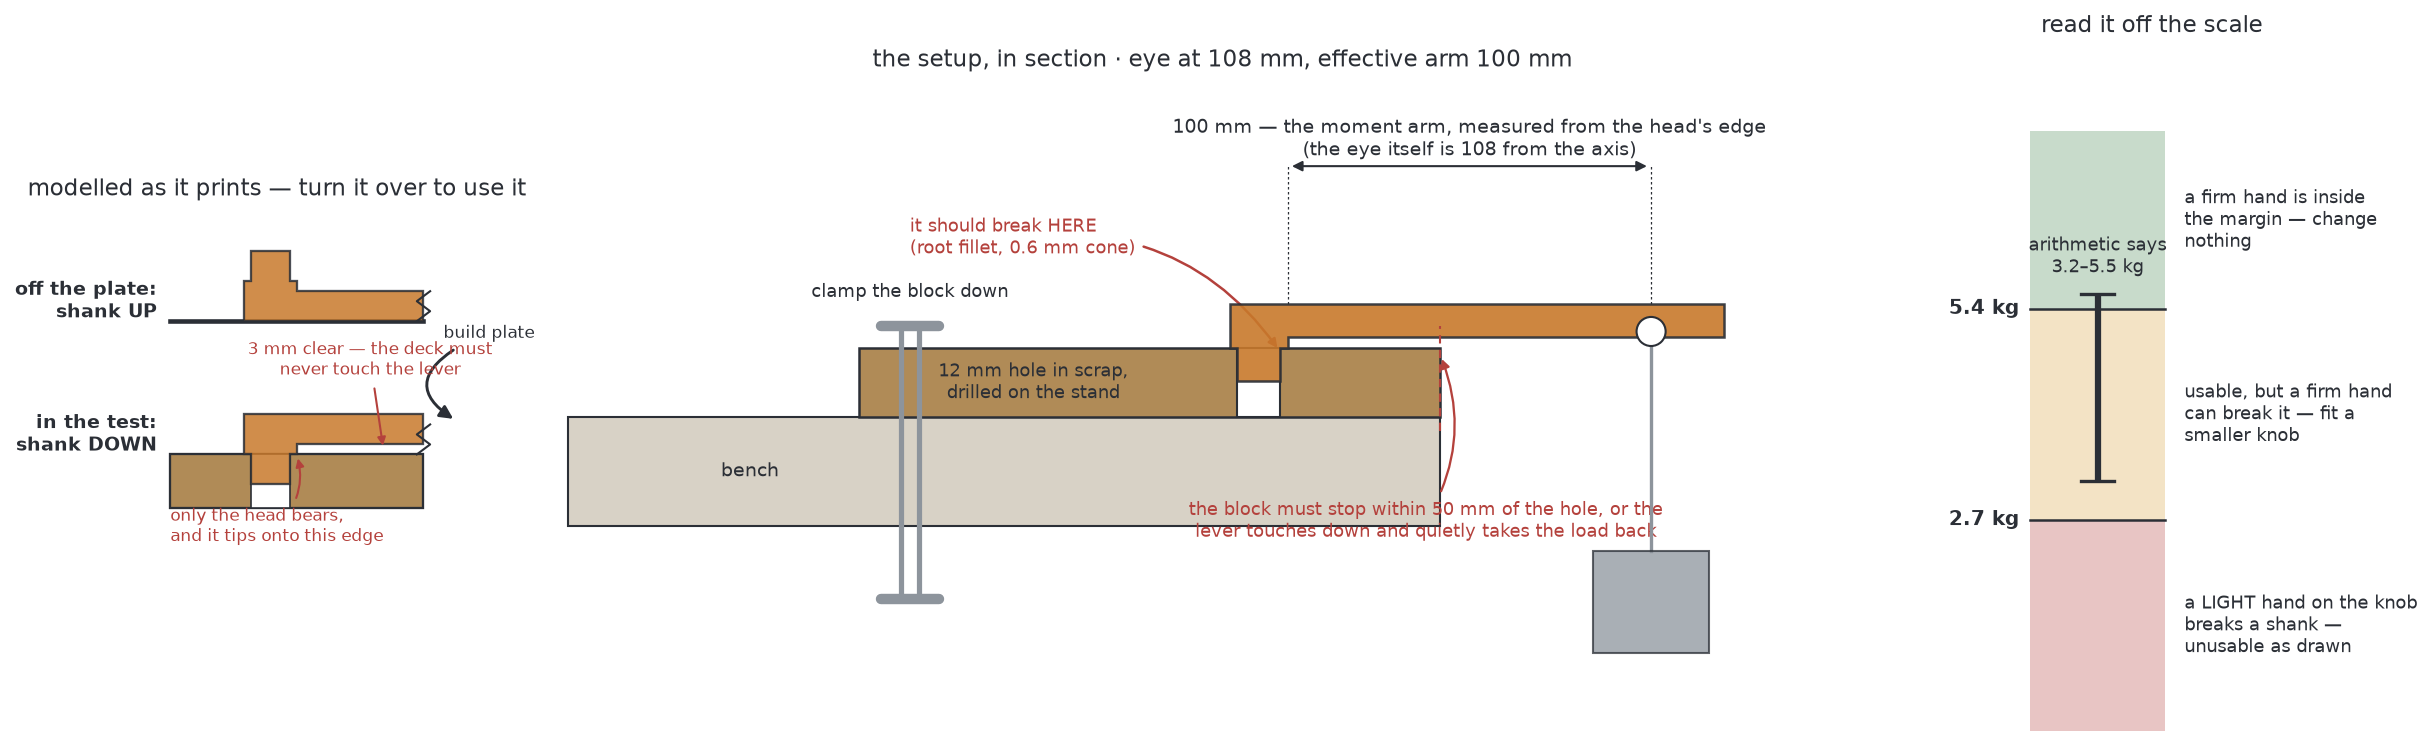
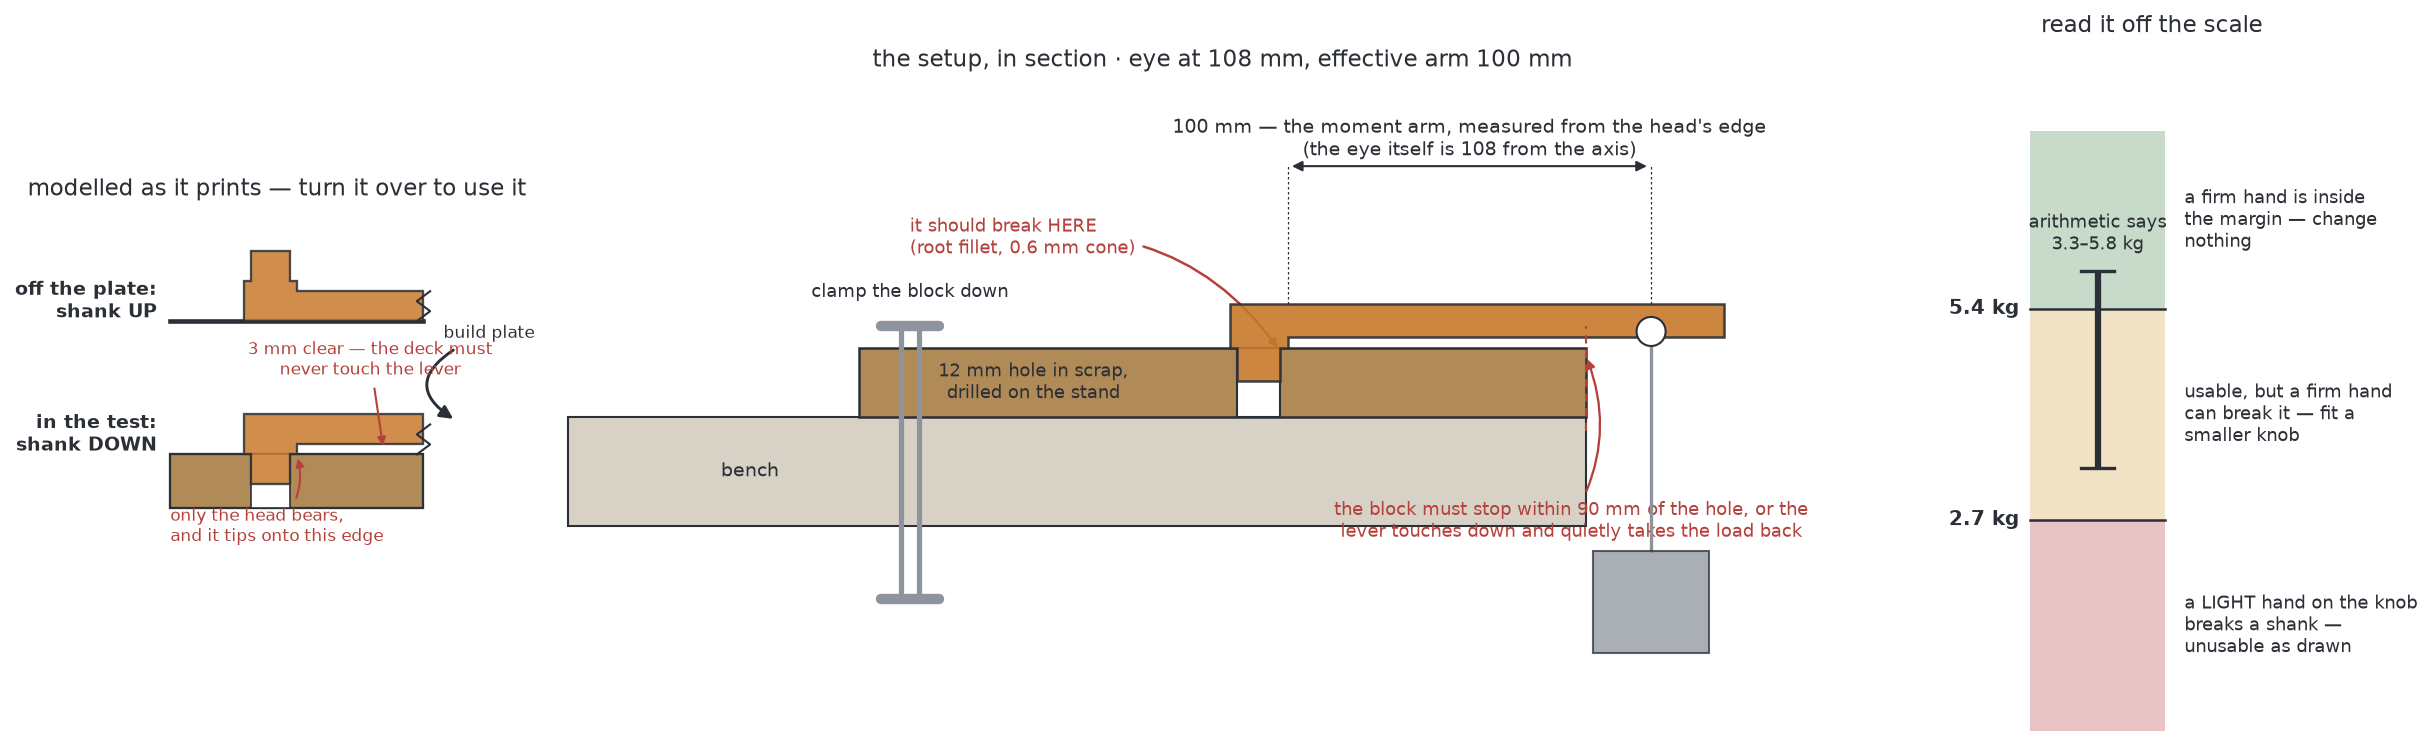
The fit is measured: tight, two rungs below what was assumed
The ladder was printed and tight -- 0.15mm diametral clearance -- was the
tightest rung that still drops in under its own weight, which is the whole test.
The default had been slip, on the reasoning that a dog wants to be a slip fit and
no better because a tight one has to be tapped out with something and the
something is usually the workpiece. On a printed 12mm hole at a 0.4mm nozzle that
was over-cautious, and the assumption is recorded as an assumption so the same
reasoning does not get applied unmeasured to the next grid.

It is 0.2mm of shank for free, and it moves more than the dogs. The root goes
from 155 to 163mm3 of section modulus, so the break arm's expected range shifts
from 3.2-5.5kg to 3.3-5.8. And the arm's freedom to cock in its hole halves,
1.9 degrees against 3.3, which nearly doubles how far the block may reach past
the hole in the break test: 90mm rather than 53, the difference between
specifying an offcut and specifying a particular offcut.

That last number was a constant typed into the drawing, which the house rule says
it should not have been. dog_rig.block_reach now computes it from the fit and the
drawing reads it, so a figure cannot go on stating a limit the model no longer
has -- and a test asserts the two agree. Same for the stand-off, which moves into
dog_rig as the canonical value the arm and the drawing share.

Backer grip confirmed at the default 0.25, so nothing changes there. Figures and
[…]

Changed region(s): [[0.5, 0.4625, 0.75, 0.7399], [0.8438, 0.2775, 0.9062, 0.4008], [0.8438, 0.6166, 0.875, 0.6475]]

diff --git a/geom/dog_grid.py b/geom/dog_grid.py
@@ -18,8 +18,8 @@ is the same and someone will want to bolt this to a real bench.
 WHY NOT SMALLER HOLES, WHICH IS THE OBVIOUS ECONOMY. Ten on twenty-five is the
 tempting version and it is the one thing here that is not a preference. A dog
 is a cantilever and its root is a circle, so what it survives goes as the cube
-of the diameter: a 9.65mm shank has a section modulus of 88mm3 against 155 for
-an 11.65mm one. Across printed layers, at 20 to 35 MPa, that is a root that lets
+of the diameter: a 9.85mm shank has a section modulus of 94mm3 against 163 for
+an 11.85mm one. Across printed layers, at 20 to 35 MPa, that is a root that lets
 go somewhere between 176 and 309 newtons applied 10mm up. An M6 in the clamp
 turned by hand on a knob delivers 250 to 500. A 10mm dog therefore breaks under
 a firm hand, not under abuse, and no amount of pitch cleverness recovers that.
@@ -45,7 +45,7 @@ numbers are still moving, and a bought or tapped plate is what it becomes.
 
 The pitch is what carries over. A fence spans a whole number of pitches and a
 clamp straddles exactly one, so both are already cut for a breadboard; what
-would change is the shank, from an 11.65mm dog to an M6 stud, which is one
+would change is the shank, from an 11.85mm dog to an M6 stud, which is one
 feature on each part rather than a redesign. Two details worth knowing before
 counting on it. A 150mm board at this pitch holds six holes with 12.5mm edge
 margin, an *even* count -- so its centre falls between four holes and it has no
@@ -79,9 +79,10 @@ of a 10mm plate, which is stiff enough not to matter for anything this machine
 can push; but it is the column to leave empty when a setup lets you, and it is a
 locating column rather than one to hang a clamp's whole preload off.
 
-The other cost is unchanged and older: a 12mm hole takes an 11.65mm shank where
-a half inch one took 12.35, and that is a sixth off the section modulus at the
-root. It is 3.2 to 5.5kg on the break arm rather than 3.8 to 6.6.
+The other cost is unchanged and older: a 12mm hole takes an 11.85mm shank where
+a half inch one took 12.35, and that is a ninth off the section modulus at the
+root. It is 3.3 to 5.8kg on the break arm rather than 3.8 to 6.6 -- and it was a
+sixth until the ladder came back tight rather than slip.
 
 THE CENTRE STATION IS NOT OPTIONAL. One hole has to sit exactly on the spindle
 axis. It is where the sacrificial backer goes, it is what you line the deck up
@@ -173,11 +174,18 @@ ones do not fit a 10mm deck.
 FITS = {"loose": 0.50, "slip": 0.35, "snug": 0.25, "tight": 0.15}
 """Diametral clearance between a dog shank and its hole, in mm.
 
-These are guesses until a plate has been printed, which is what ``--ladder`` is
-for: print one stop at each fit, keep the tightest that still drops in under its
-own weight, and set that as the default. A dog wants to be a slip fit and no
-better -- a tight one has to be tapped out with something, and the something is
-usually the workpiece.
+These were guesses until a plate was printed, which is what ``--ladder`` is for:
+print one stop at each fit, keep the tightest that still drops in under its own
+weight, and set that as the default. Which has now been done, and the answer was
+``tight``.
+
+That is two rungs tighter than this first assumed, and the assumption is worth
+recording because it was reasoned rather than measured: a dog wants to be a slip
+fit and no better, went the argument, because a tight one has to be tapped out
+with something and the something is usually the workpiece. On a printed 12mm
+hole at 0.4mm nozzle that turned out to be over-cautious -- ``tight`` drops in
+under its own weight and comes out by hand. Any new grid or nozzle gets the
+ladder printed again rather than inheriting this.
 """
 
 LADDER = ("loose", "slip", "snug", "tight")

diff --git a/parts/dog_rig.py b/parts/dog_rig.py
@@ -9,9 +9,9 @@ destroyed.
 WHAT IS ACTUALLY UNKNOWN, in the order it would hurt:
 
 1. How much a shank root holds. The fillet is a guess, and the numbers no longer
-   say the margin is thin -- they say there may not be one. An 11.65mm shank has
-   a section modulus of 155mm^3, so at somewhere between 20 and 35 MPa of layer
-   adhesion it lets go between 3.1 and 5.4 N.m. Against that, the clamp at a
+   say the margin is thin -- they say there may not be one. An 11.85mm shank has
+   a section modulus of 163mm^3, so at somewhere between 20 and 35 MPa of layer
+   adhesion it lets go between 3.3 and 5.7 N.m. Against that, the clamp at a
    firm hand on its knob (``bench_dogs.KNOB``, 500N, corrected upwards from a
    guessed 200) puts 5.2 N.m into the root. That is inside the range the root
    fails in, not below it. A light hand at 250N gives 2.6 and is comfortable, so
@@ -32,6 +32,7 @@ truncated one saves a quarter of an hour and changes the thing being measured.
 
 from __future__ import annotations
 
+import math
 from dataclasses import replace
 
 from build123d import Align, Box, Cylinder, Part, Plane, Pos, RectangleRounded, extrude
@@ -57,12 +58,41 @@ distance. The eye therefore sits half a head further out than the number that
 comes off the scale. See ``arm``.
 """
 
+STAND = 3.0
+"""How far the break arm's lever stands clear of the deck, in mm.
+
+The fix for the flaw in ``arm``, and a limit on the block in the same number --
+see ``block_reach``.
+"""
+
+
+def block_reach(params: Params, stand: float = STAND) -> float:
+    """How far the block may reach past the hole in the break test, in mm.
+
+    The arm has to be free to rotate through everything between snug and broken
+    or the lever touches down and quietly takes the load back. Two things add
+    up: the shank cocks in its clearance before the hole resists at all, and
+    then the root bends before it lets go. The stand-off has to outlast both at
+    the block's outer edge, which is what this solves for.
+
+    Measuring the fit paid for itself here. At the guessed slip clearance the
+    arm cocked 2.2 degrees before the hole did anything and the block could only
+    reach 53mm; at the measured tight fit it is 1.0 and the block may reach 90,
+    which is the difference between specifying an offcut and specifying a
+    particular offcut.
+    """
+    cocking = params.fit / params.shank_length
+    stiffness = math.pi * params.shank**4 / 64
+    bending = 5.4e3 * params.shank_length / (3000 * stiffness)  # PLA, at the break
+    return stand / (cocking + bending)
+
+
 PUCK_GRIPS = (0.15, 0.25, 0.35, 0.45)
 """Diametral interferences worth trying on a backer, loosest first."""
 
 
 def arm(params: Params, lever: float = LEVER, width: float = 20.0,
-        eye: float = 8.0, stand: float = 3.0) -> Part:
+        eye: float = 8.0, stand: float = STAND) -> Part:
     """A stop with a lever on it, for breaking one root on purpose.
 
     Drop it in a hole, clamp the block down, hang a bag off the eye and fill the

diff --git a/tests/test_dog_rig.py b/tests/test_dog_rig.py
@@ -118,20 +118,29 @@ def test_only_the_head_touches_the_deck(params):
 
 
 def test_the_stand_off_says_how_big_the_block_may_be(params):
-    """Three millimetres is not picked for looks, and it does not buy unlimited
-    block. Shank clearance alone lets the arm cock in its hole before the hole
-    resists at all, and the root bends through more again before it lets go --
-    about 3.3 degrees between them. The lever has to stay clear through all of
-    it or it touches down mid-test and takes the load back, so the stand-off is
-    really a limit on how far the block may reach past the hole. It comes out a
-    little over 50mm, which is an ordinary offcut."""
-    stand = 3.0
-    cocking = params.fit / params.shank_length
-    stiffness = math.pi * params.shank**4 / 64
-    bending = 5.4e3 * params.shank_length / (3000 * stiffness)  # PLA, at the break
-    reach = stand / (cocking + bending)
-    assert 40 < reach < 70, f"block may reach {reach:.0f}mm past the hole"
-    assert stand < params.rise
+    """Three millimetres of stand-off does not buy unlimited block. The arm has
+    to stay clear through everything between snug and broken -- the shank cocks
+    in its clearance before the hole resists at all, then the root bends before
+    it goes -- or the lever touches down and takes the load back mid-test.
+
+    What it buys depends on the fit, which is why measuring it mattered beyond
+    the dogs themselves: at the guessed slip clearance the block could reach
+    53mm, and at the measured tight fit it reaches 90."""
+    reach = dog_rig.block_reach(params)
+    assert reach > 60, f"block may only reach {reach:.0f}mm; say so on the drawing"
+    assert dog_rig.STAND < params.rise
+    loose = dog_rig.block_reach(params.at("loose"))
+    assert loose < reach, "a looser fit has to buy less block, not more"
+
+
+def test_the_drawing_states_the_block_limit_it_computes(params):
+    """The house rule, checked on the one drawing whose numbers are load-bearing
+    rather than illustrative: the limit on the figure is the limit the model
+    computes, rounded, and not a constant somebody typed once."""
+    from tools import break_test
+
+    assert break_test.STAND == dog_rig.STAND
+    assert round(dog_rig.block_reach(params), -1) == pytest.approx(90.0)
 
 
 def test_the_arm_is_stronger_than_the_shank_it_is_there_to_break(params):
@@ -183,7 +192,7 @@ def test_the_expected_break_is_a_weight_a_person_can_hang(params):
     """The point of a 100mm arm: the whole plausible range of answers lands
     between a bottle of water and a bucket of it."""
     shank_z = math.pi * params.shank**3 / 32
-    for mpa, expect in ((20, 3.2), (35, 5.5)):
+    for mpa, expect in ((20, 3.3), (35, 5.8)):
         kg = shank_z * mpa / 1000 / (dog_rig.LEVER / 1000) / 9.81
         assert kg == pytest.approx(expect, abs=0.1)
 

diff --git a/parts/bench_dogs.py b/parts/bench_dogs.py
@@ -26,7 +26,7 @@ hand can apply is the limit rather than the plastic being it.
 
 That second one is not a nicety, which is what the corrected numbers in ``KNOB``
 changed. A firm hand on a knob is 500N, and 500N at the bolt's height is 5.2 N.m
-against a root that holds 3.1 to 5.4. The knob is not buying margin on top of a
+against a root that holds 3.3 to 5.7. The knob is not buying margin on top of a
 comfortable design; it is most of the margin there is.
 
 WHAT THE FOUR MOUNTING BOLTS ACTUALLY SEE, which is almost nothing. A fence and
@@ -109,7 +109,7 @@ knob turned lightly at 0.3 N.m gives 250N and one turned firmly at 0.6 gives
 500. This corrected an earlier figure of 200N, which was a guess dressed as a
 number and was optimistic by somewhere between a quarter and a factor of two
 and a half. It matters because 500N times the bolt's height above the deck is
-5.2 N.m at a shank root that holds 3.1 to 5.4, so a firm hand is not inside the
+5.2 N.m at a shank root that holds 3.3 to 5.7, so a firm hand is not inside the
 margin -- it is on it. See ``parts.dog_rig``.
 
 A SMALLER SCREW MAKES THIS WORSE, WHICH IS THE OPPOSITE OF THE FIRST INSTINCT.
@@ -139,9 +139,20 @@ class Params:
 
     grid: Grid = dog_grid.DEFAULT
     """The hole pattern every part here plugs into."""
-    fit: float = dog_grid.FITS["slip"]
-    """Diametral clearance between a shank and its hole. Print the ladder before
-    trusting this one -- see ``geom.dog_grid.FITS``."""
+    fit: float = dog_grid.FITS["tight"]
+    """Diametral clearance between a shank and its hole.
+
+    Measured, not guessed: the ladder was printed and the tight rung was the
+    tightest that still dropped in under its own weight, which is the whole test.
+    This started at slip, two rungs looser, on the reasoning that a printed hole
+    comes out undersize -- it did not, or not by enough to matter, and the reason
+    to say so here is that the same reasoning would otherwise get applied again
+    to the next grid.
+
+    It is 0.2mm of shank the design gets for free. The root goes from 155 to
+    163mm3 of section modulus, and the arm's freedom to cock in its hole halves,
+    which is what the break rig's block limit is set from.
+    """
 
     # --- the stop ---------------------------------------------------------
     head: float = 16.0

diff --git a/tools/break_test.py b/tools/break_test.py
@@ -49,10 +49,10 @@ WARN = "#d9a441"
 
 EYE = 8.0
 WIDTH = 20.0
-STAND = 3.0
-BLOCK = 50.0
-"""How far the block may reach past the hole, in mm. Set by ``STAND`` and the
-rotation the arm has to be free to make -- see ``dog_rig.arm``."""
+STAND = dog_rig.STAND
+"""Both read from the model rather than set here, because the drawing has to be
+wrong when the part is, not agreeable. ``BLOCK`` is a function of the measured
+fit, so it moved when the ladder was printed -- see ``dog_rig.block_reach``."""
 
 
 def _outline(p, flipped: bool, upto: float):
@@ -121,7 +121,7 @@ def _rig_panel(ax, p):
     ax.set_title(f"the setup, in section · eye at {at:.0f} mm, "
                  f"effective arm {dog_rig.LEVER:.0f} mm", color=INK, fontsize=11)
     rs, rh = p.shank / 2, p.head / 2
-    block_t, bench_t, edge = 19.0, 30.0, BLOCK
+    block_t, bench_t, edge = 19.0, 30.0, round(dog_rig.block_reach(p), -1)
 
     ax.add_patch(Rectangle((-190, -block_t - bench_t), 190 + edge, bench_t,
                            fc=BENCH, ec=INK, lw=1.0, zorder=1))
@@ -148,7 +148,7 @@ def _rig_panel(ax, p):
     ax.add_patch(Circle((at, (p.rise - STAND) / 2), EYE / 2, fc="white", ec=INK,
                         lw=1.0, zorder=7))
 
-    ax.annotate(f"the block must stop within {BLOCK:.0f} mm of the hole, or the\n"
+    ax.annotate(f"the block must stop within {edge:.0f} mm of the hole, or the\n"
                 "lever touches down and quietly takes the load back",
                 xy=(edge, -2.0), xytext=(edge - 4, -52), color=BAD, fontsize=8.5, ha="center",
                 arrowprops=dict(arrowstyle="-|>", color=BAD, lw=1.1,
